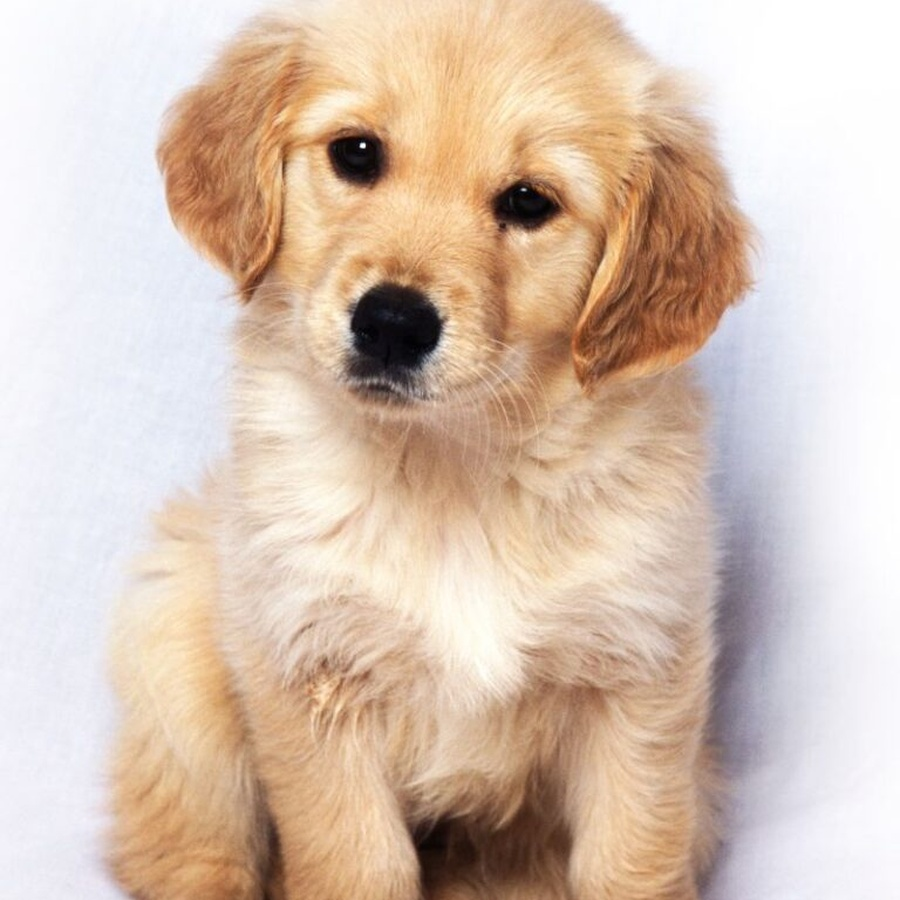
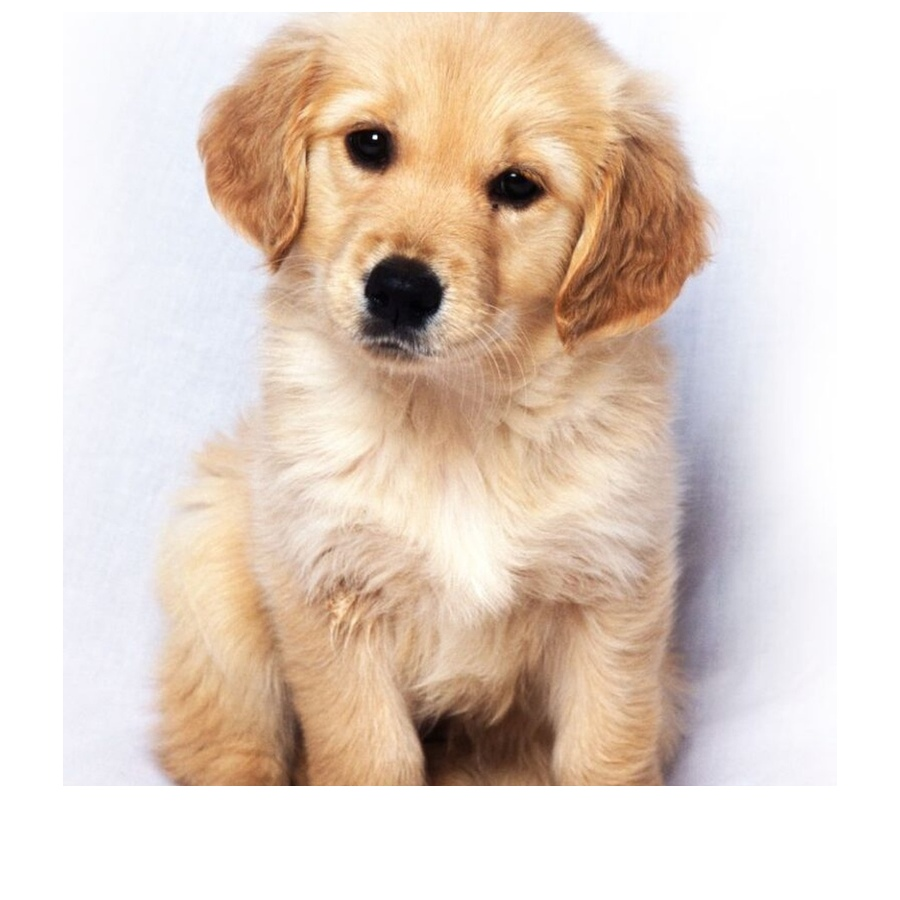
Add files via upload

diff --git a/styles.css b/styles.css
@@ -1857,39 +1857,3 @@ body.petDetailMode #petDetailView{
   z-index:100 !important;
   background:#fff !important;
 }
-
-/* v2.64 — Ana uygulama pet fotoğraf kadrajı */
-.petPhoto,
-.petCard img,
-.petAvatar img,
-.petDetailPhoto img,
-.petDetailView img.petImage,
-.refPetVisual img,
-.editPetPortrait img,
-[data-pet-photo] img{
-  object-fit:cover !important;
-}
-
-/* Kedi: başı biraz aşağı al, kulaklar tamamen görünsün */
-img[src*="pet-cat.jpg"],
-.petCard.cat img,
-.petAvatar.cat img,
-.refPetVisual.cat img{
-  object-position:center 24% !important;
-}
-
-/* Köpek: kediyle aynı görsel ağırlıkta, hafif üstten ortalı */
-img[src*="pet-dog.jpg"],
-.petCard.dog img,
-.petAvatar.dog img,
-.refPetVisual.dog img{
-  object-position:center 31% !important;
-}
-
-/* Yuvarlak/kare profil alanlarında kafa kesilmesini azalt */
-.petPhoto,
-.petAvatar,
-.refPetVisual,
-.editPetPortrait{
-  overflow:hidden !important;
-}

diff --git a/README.md b/README.md
@@ -459,9 +459,8 @@ Gerçek bildirim testi native/TestFlight sürümünde yapılacaktır.
 - styles.css SHA256: fdbd632e83fdb98264dfd731ee93ce6cd9d726ea9371cdf0ab1eecc52a09c0dc
 - app.js SHA256: 19defaf62e8e3cd943a0468107a4cfc67453fd40375ecbd8074dab695781d3a6
 
-## v2.64 — Pet fotoğraf kadrajı
+## v2.65 — Pet fotoğrafları gerçek kadraj düzeltmesi
 - v2.63 baz alındı.
-- Onboarding dosyalarına dokunulmadı.
-- Ana uygulamadaki kedi fotoğrafı yukarıdan daha fazla alan gösterecek şekilde ayarlandı; kulak kesilmesi azaltıldı.
-- Köpek fotoğrafı kediyle daha dengeli görünecek şekilde yeniden hizalandı.
-- Yalnız CSS object-position/object-fit ayarları değiştirildi.
+- pet-cat.jpg dosyası küçültülüp beyaz canvas içine yeniden yerleştirildi; kulakların tamamen görünmesi için üstte ve yanlarda daha fazla boşluk bırakıldı.
+- pet-dog.jpg de benzer görsel ağırlık için yeniden ölçeklendirildi.
+- Onboarding dosyalarına ve onboarding tasarımına dokunulmadı.
